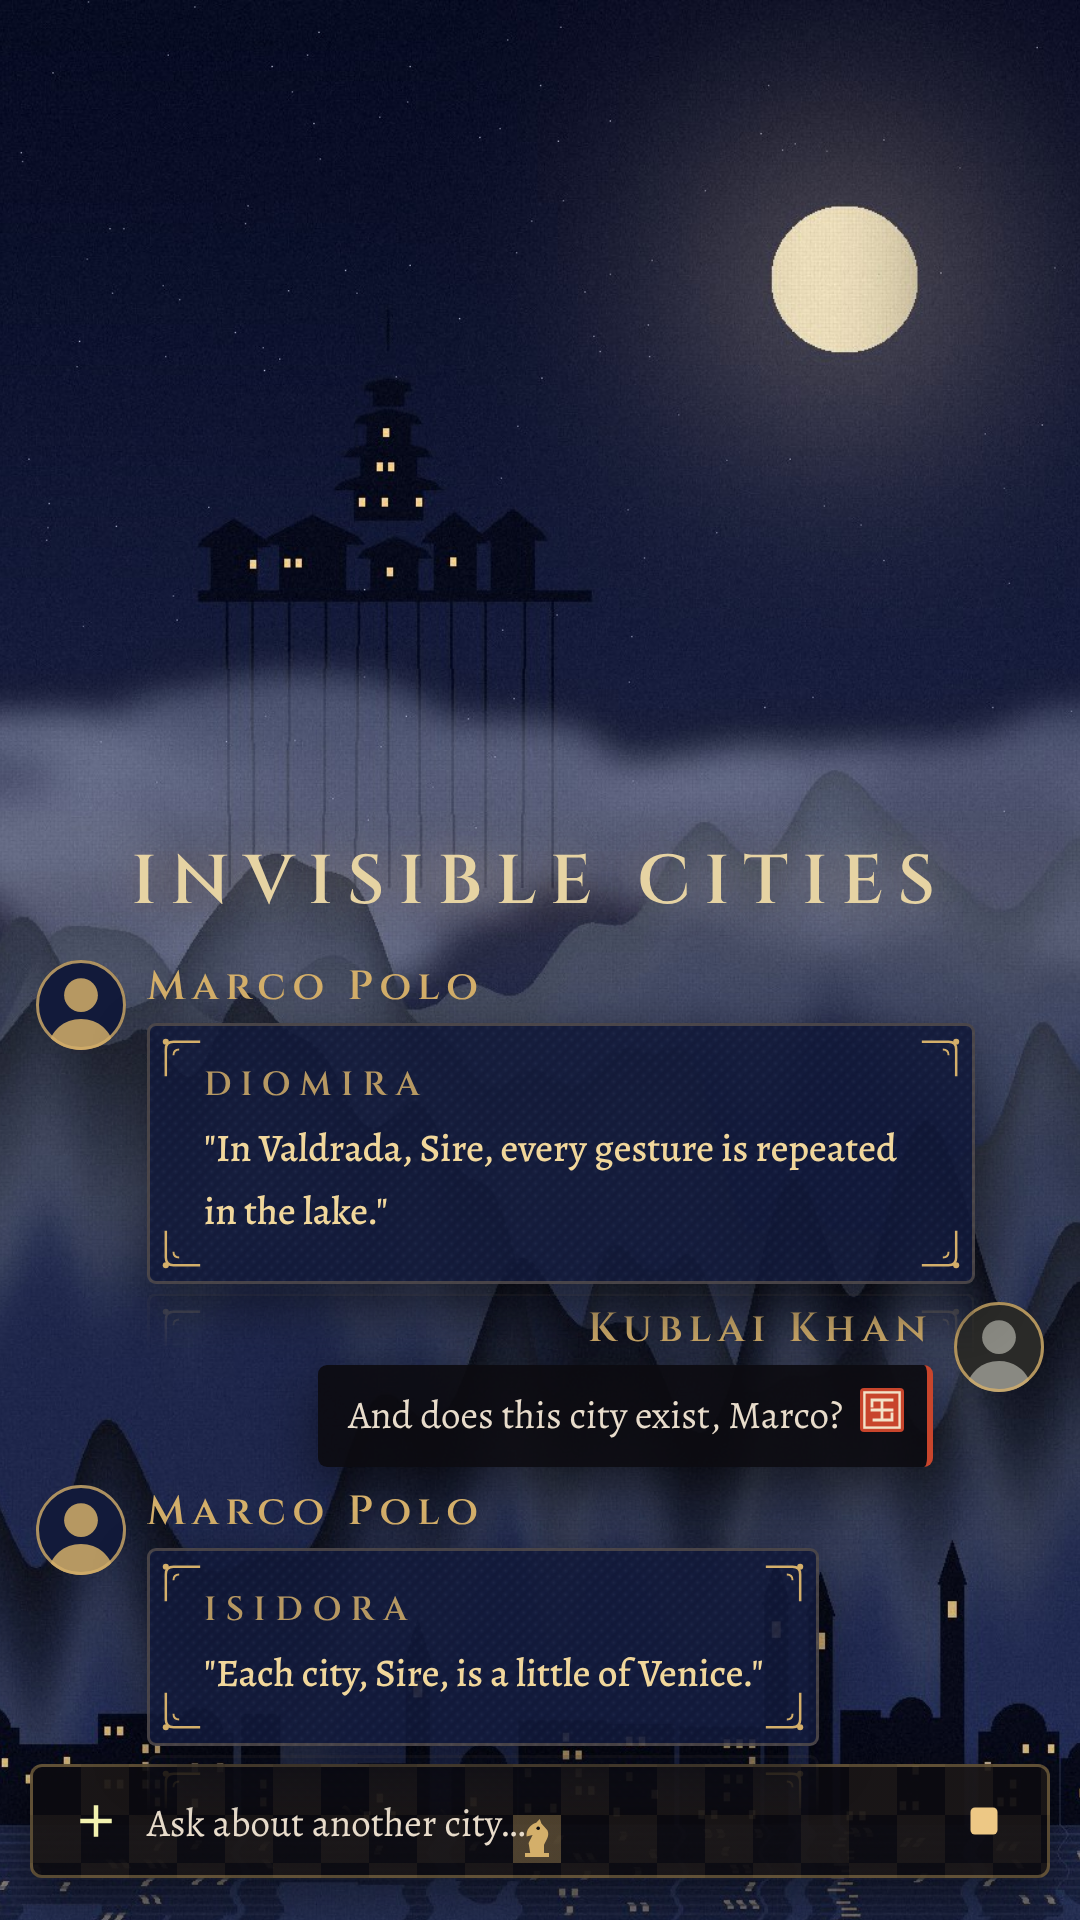
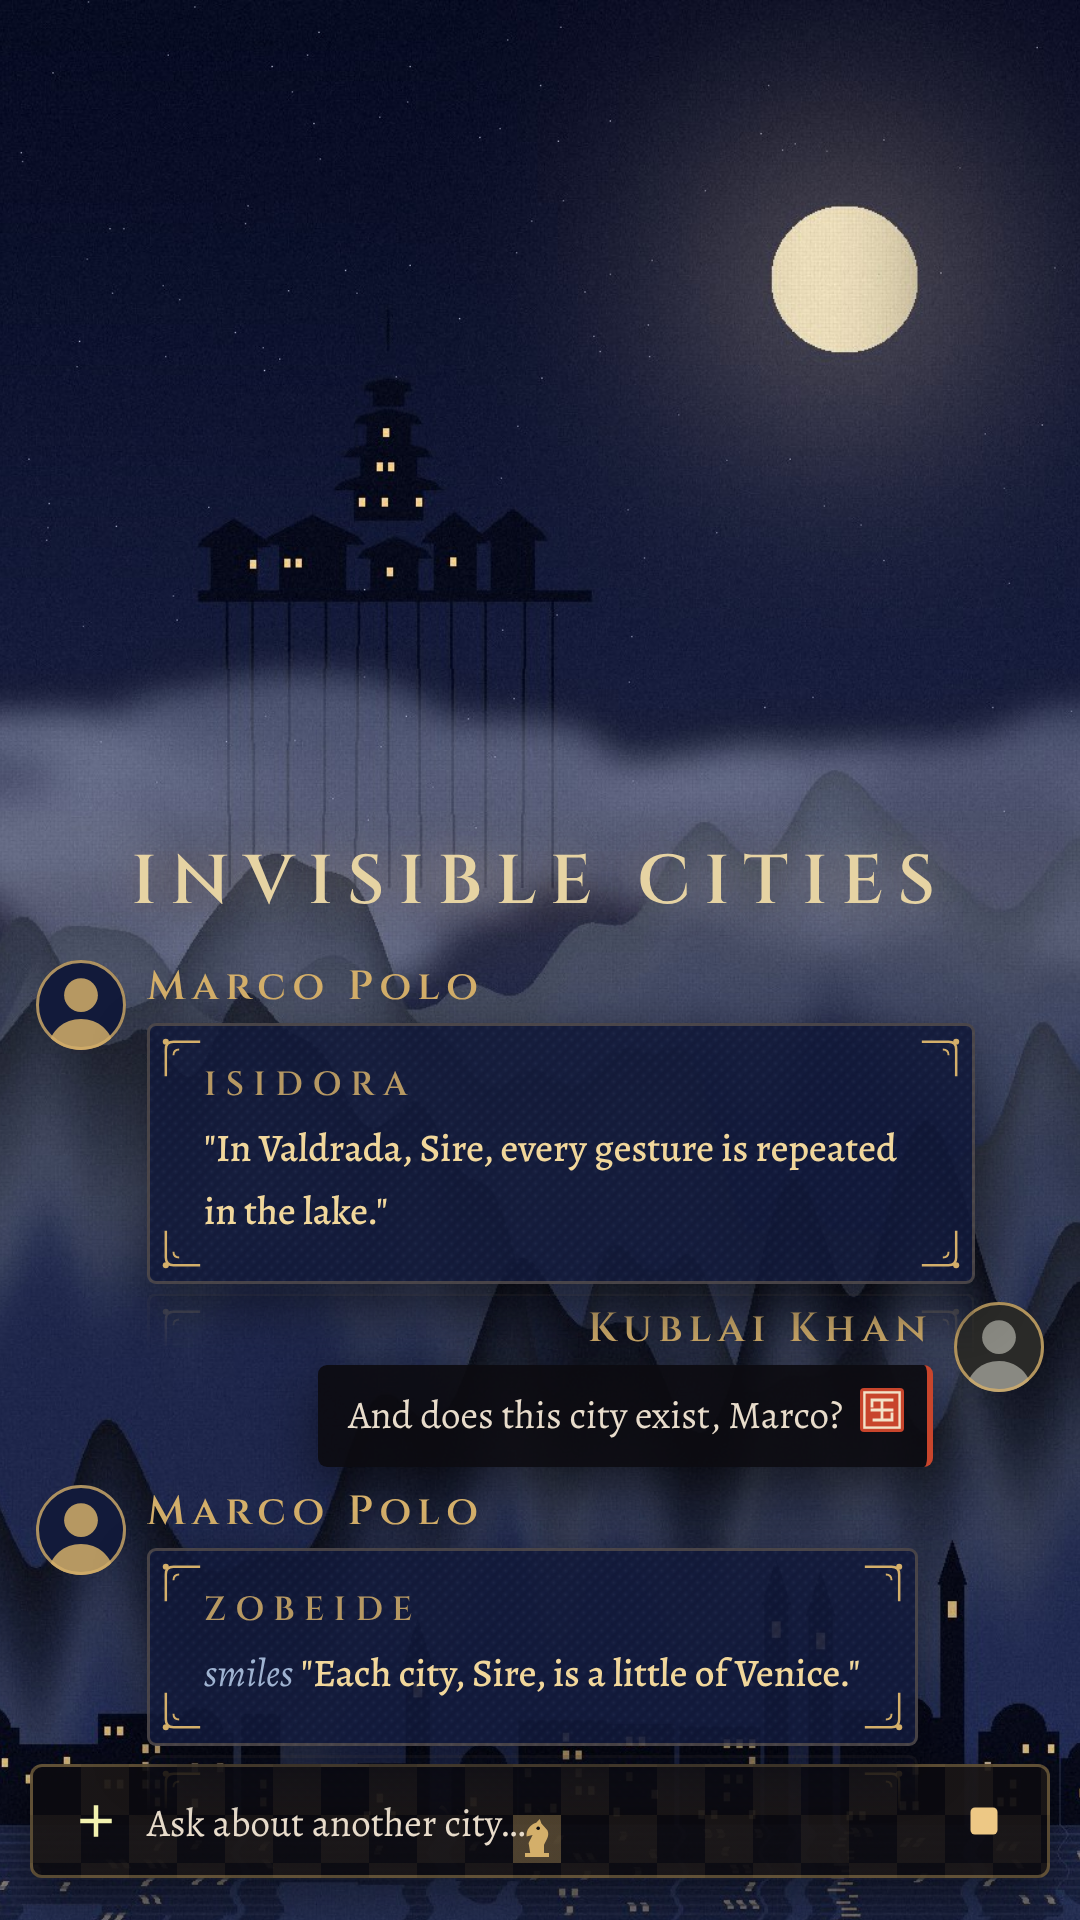
Invisible Cities: pick each story's city from its content
CSS counters don't carry across messages in Tavo (each message is
isolated, so every story was titled Diomira). The city is now chosen
with :has() from the number of paragraphs and presence of italic/bold,
giving stable but varied cities per message.

Claude-Session: https://claude.ai/code/session_011AdgnKtmEQrsYZ6duuAFrr

Changed region(s): [[0.1833, 0.7812, 0.8556, 0.9375], [0.2139, 0.5625, 0.3667, 0.5938]]

diff --git a/tools/hub-previews.js b/tools/hub-previews.js
@@ -72,6 +72,7 @@ const THEMES = [
   {
     dir: 'invisible-cities',
     head: 314, // у этой темы пузыри выше из-за названий городов
+    markup: true, // текст как в Tavo: абзацы <p>, действия <em> — от них зависит город
     bg: 'center top / 380px auto',
     name: 'Marco Polo',
     you: 'Kublai Khan',
@@ -82,7 +83,7 @@ const THEMES = [
     lines: [
       ['c', '"In Valdrada, Sire, every gesture is repeated in the lake."'],
       ['u', 'And does this city exist, Marco?'],
-      ['c', '"Each city, Sire, is a little of Venice."'],
+      ['c', '*smiles* "Each city, Sire, is a little of Venice."'],
     ],
   },
   {
@@ -118,12 +119,12 @@ const avatarSvg = ([fg, bg]) =>
       `<circle cx="32" cy="25" r="12" fill="${fg}" opacity="0.85"/><path d="M8 64c2-14 12-22 24-22s22 8 24 22z" fill="${fg}" opacity="0.85"/></svg>`
   )
 
-function richText(text, font) {
+function richText(text, font, markup) {
   const tone = font.toneTextStyle
   const quote = font.quoteTextStyle
   return text.replace(/(\*[^*]+\*)|("[^"]+"|«[^»]+»)/g, (_, act, q) =>
     act
-      ? `<span style="color:${rgba(tone.color)};font-style:${tone.fontStyle}">${font.toneSymbol === 'none' ? act.slice(1, -1) : act}</span>`
+      ? `<${markup ? 'em' : 'span'} style="color:${rgba(tone.color)};font-style:${tone.fontStyle}">${font.toneSymbol === 'none' ? act.slice(1, -1) : act}</${markup ? 'em' : 'span'}>`
       : `<span style="color:${rgba(quote.color)};font-weight:${quote.fontWeight}">${q}</span>`)
 }
 
@@ -138,7 +139,7 @@ function page(t, m, generating) {
   const radius = (r) => (r >= 50 ? '50%' : `${r}px`)
   const bubble = (c, text) => `<div class="tavo-bubble ${c ? 'tavo-character-bubble' : 'tavo-user-bubble'}">
           <div class="tavo-bubble-content ${c ? 'tavo-character-bubble-content' : 'tavo-user-bubble-content'}">
-            <div class="tavo-message-content" style="color:${rgba((c ? cf : uf).textStyle.color)}">${richText(text, c ? cf : uf)}</div>
+            <div class="tavo-message-content" style="color:${rgba((c ? cf : uf).textStyle.color)}">${t.markup ? '<p style="margin:0">' : ''}${richText(text, c ? cf : uf, t.markup)}${t.markup ? '</p>' : ''}</div>
           </div></div>`
   const avatarImg = (c) => `<img class="tavo-avatar ${c ? 'tavo-character-avatar' : 'tavo-user-avatar'}"
       style="border-radius:${radius((c ? m.character_avatar : m.user_avatar).radius)}" src="${c ? ava : userAva}">`

diff --git a/themes/invisible-cities/style.css b/themes/invisible-cities/style.css
@@ -49,18 +49,6 @@
   src: url("theme/assets/cinzel-latin.woff2") format("woff2");
 }
 
-/* 55 городов по кругу. Счётчик идёт по сообщениям на экране,
-   поэтому при прокрутке названия меняются: города Кальвино
-   никогда не бывают одними и теми же дважды. */
-@counter-style invisible-cities {
-  system: cyclic;
-  symbols: CITY_SYMBOLS;
-}
-
-:root {
-  counter-reset: city;
-}
-
 /* ---------- Анимации ---------- */
 
 /* Ход конём по доске: квадраты 16px, буква «Г» за ход */
@@ -102,7 +90,6 @@
 }
 
 .tavo-character-bubble {
-  counter-increment: city;
   background-color: rgba(18, 26, 58, 0.9);
   background-image:
     url("theme/assets/corner-tl.svg"),
@@ -120,9 +107,12 @@
   -webkit-box-reflect: below 3px linear-gradient(to bottom, transparent calc(100% - 20px), rgba(0, 0, 0, 0.22));
 }
 
-/* Название города над каждым рассказом */
+/* Название города над каждым рассказом. CSS-счётчики в Tavo не работают
+   (каждое сообщение изолировано), поэтому город выбирается по самому
+   рассказу: числу абзацев, курсиву и жирному. Один и тот же рассказ
+   всегда ведёт в один и тот же город, разные рассказы — в разные. */
 .tavo-character-bubble-content::before {
-  content: counter(city, invisible-cities);
+  content: "Diomira";
   display: block;
   margin-bottom: 4px;
   font-family: "Cinzel", Georgia, serif;
@@ -233,3 +223,5 @@
     animation: none;
   }
 }
+
+CITY_RULES

diff --git a/themes/invisible-cities/build.py b/themes/invisible-cities/build.py
@@ -247,6 +247,23 @@ def make_svgs():
     (ASSETS / "divider.svg").write_text(divider, encoding="utf-8")
 
 
+def city_rules():
+    """Город для рассказа: число абзацев (1..10+), есть ли курсив и жирный.
+    40 сочетаний разбросаны по 55 городам шагом 7 (взаимно просто с 55)."""
+    base = ".tavo-character-bubble-content"
+    rules = ["/* ---------- Города (сгенерировано build.py) ---------- */"]
+    for k in range(1, 11):
+        paras = f":has(p:nth-of-type({k}))" + (f":not(:has(p:nth-of-type({k + 1})))" if k < 10 else "")
+        for em in (0, 1):
+            for strong in (0, 1):
+                flags = (":has(:is(em, i))" if em else ":not(:has(:is(em, i)))") + \
+                        (":has(:is(strong, b))" if strong else ":not(:has(:is(strong, b)))")
+                idx = (k - 1) * 4 + em * 2 + strong
+                city = CITIES[(idx * 7 + 1) % len(CITIES)]
+                rules.append(f'{base}{paras}{flags}::before {{ content: "{city}"; }}')
+    return "\n".join(rules)
+
+
 def font(color, tone, quote):
     def style(c, it=False, weight=400):
         return {"fontFamily": None, "fontSize": 17, "fontWeight": weight,
@@ -311,7 +328,7 @@ def main():
     make_svgs()
 
     css = (HERE / "style.css").read_text(encoding="utf-8")
-    css = css.replace("CITY_SYMBOLS", " ".join(f'"{c}"' for c in CITIES))
+    css = css.replace("CITY_RULES", city_rules())
     m = manifest(css)
     (HERE / "theme.json").write_text(json.dumps(m, ensure_ascii=False, indent=2) + "\n", encoding="utf-8")
     out = DIST / "invisible-cities.thm"

diff --git a/themes/invisible-cities/README.md b/themes/invisible-cities/README.md
@@ -4,7 +4,7 @@
 
 - **Фон** — свиток тушью. Наверху **Бавкида**: город на тонких сваях над облаками. Ниже горы в тумане, как на китайской живописи. Внизу **Вальдрада**, отражённая в озере, и лунная дорожка на воде. Нарисован скриптом.
 - **Рассказы персонажа (Марко)** — синий шёлк с золотыми уголками.
-  - Над каждым рассказом стоит **название одного из 55 городов книги**. Счётчик идёт по сообщениям на экране, поэтому при прокрутке названия меняются: города Кальвино никогда не бывают теми же дважды.
+  - Над каждым рассказом стоит **название одного из городов книги**. Город выбирается по самому рассказу: сколько в нём абзацев, есть ли курсив и жирный. Один и тот же рассказ всегда ведёт в один и тот же город, разные — в разные. Это 40 сочетаний на 55 городов. Сначала я сделал это CSS-счётчиком, но в Tavo каждое сообщение изолировано, и везде выходила Diomira.
   - Под каждым рассказом мерцает его **отражение**, как у Вальдрады.
 - **Ваши сообщения (Хубилай-хан)** — чёрный лак, красная печать и красная кромка.
 - **Поле ввода** — шахматная доска хана. Пока Марко отвечает, **по ней ходит конь**: буквой «Г», подсвечивая клетки.
@@ -12,4 +12,4 @@
 
 Файл: `dist/invisible-cities.thm`. Нужен **Advanced Rendering**. Пересборка: `python3 themes/invisible-cities/build.py`.
 
-Что может не сработать: отражение сделано через `-webkit-box-reflect`, это особенность Chromium. Если WebView его не поддержит, отражения просто не будет. Названия городов используют `@counter-style`.
+Что может не сработать: отражение сделано через `-webkit-box-reflect`, это особенность Chromium. Если WebView его не поддержит, отражения просто не будет.

diff --git a/CLAUDE.md b/CLAUDE.md
@@ -24,6 +24,7 @@
 - **Нельзя менять размеры пузырей** (`transform: scale`, рост от анимаций): длинные сообщения наезжают на соседние. Эффекты — только цветом, тенью, фоном.
 - Рамки аватаров — `outline` с отрицательным `outline-offset`, а не внешняя `box-shadow`: иначе залезают на пузырь.
 - Декор внутри пузыря ограничивать по ширине (`min(90px, 50%)`): пузырь «•••» во время генерации очень узкий.
+- CSS-счётчики (`counter-increment`) между сообщениями не работают: каждое сообщение изолировано, счётчик всегда 1. Различать сообщения можно через `:has()` по их содержимому (число `<p>`, `em`, `strong`).
 - Покадровая смена картинок (`steps`) выглядит дёргано — лучше плавное движение `background-position`.
 - Hub: обложка 9:16 (1080×1920); в карточке видно примерно 44–97% высоты, поэтому логотип и чат держать внизу, сверху — только фон. Hub сам переводит названия тем.
 - Цвета: в `theme.json` — десятичное `0xAARRGGBB`, в API — `#AARRGGBB`, в CSS — обычный CSS.
